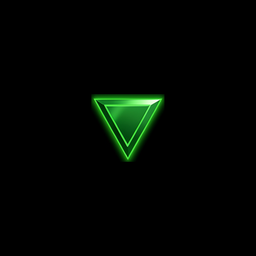
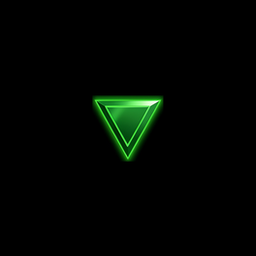
combo PS znacky: vetsi symbol (~78% dlaždice), obrazek 70px, ring 3px

diff --git a/public/style.css b/public/style.css
@@ -324,16 +324,15 @@ body.no-scroll { overflow: hidden; }
    kruhové, s borderem). */
 .combo-ring {
   border-radius:50%;
-  padding:4px;
+  padding:3px;
   background:
     conic-gradient(#f1c40f calc(var(--ww-remaining, 0) * 360deg), rgba(241,196,15,0.15) 0);
 }
 /* PS značka uvnitř ringu — kruhová, s bílým borderem (design Dodge/Block).
    PNG má plné černé pozadí (RGB, bez alpha) → overflow:hidden je nutné, aby
-   border-radius:50% ořízl černý čtverec na kruh. Obrázek větší, ať je symbol dobře čitelný,
-   tenký ring (4px) jen orámuje okraj. */
+   border-radius:50% ořízl černý čtverec na kruh. Velký symbol, tenký ring (3px). */
 .combo-ring img {
-  width:64px;height:64px;
+  width:70px;height:70px;
   border-radius:50%;border:2px solid #fff;
   object-fit:cover;overflow:hidden;
   background:#111;display:block;
